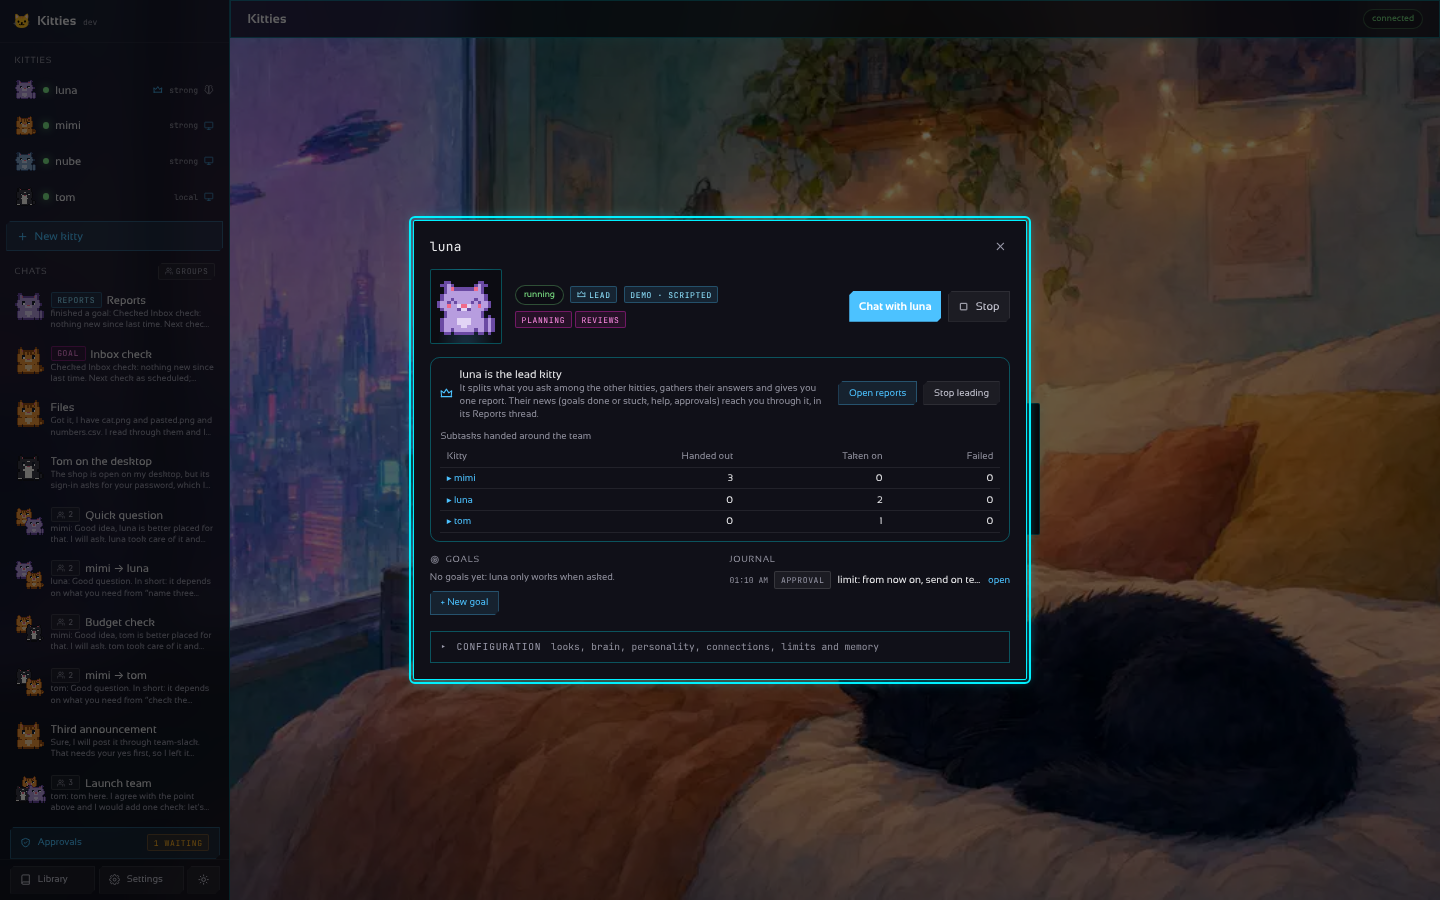
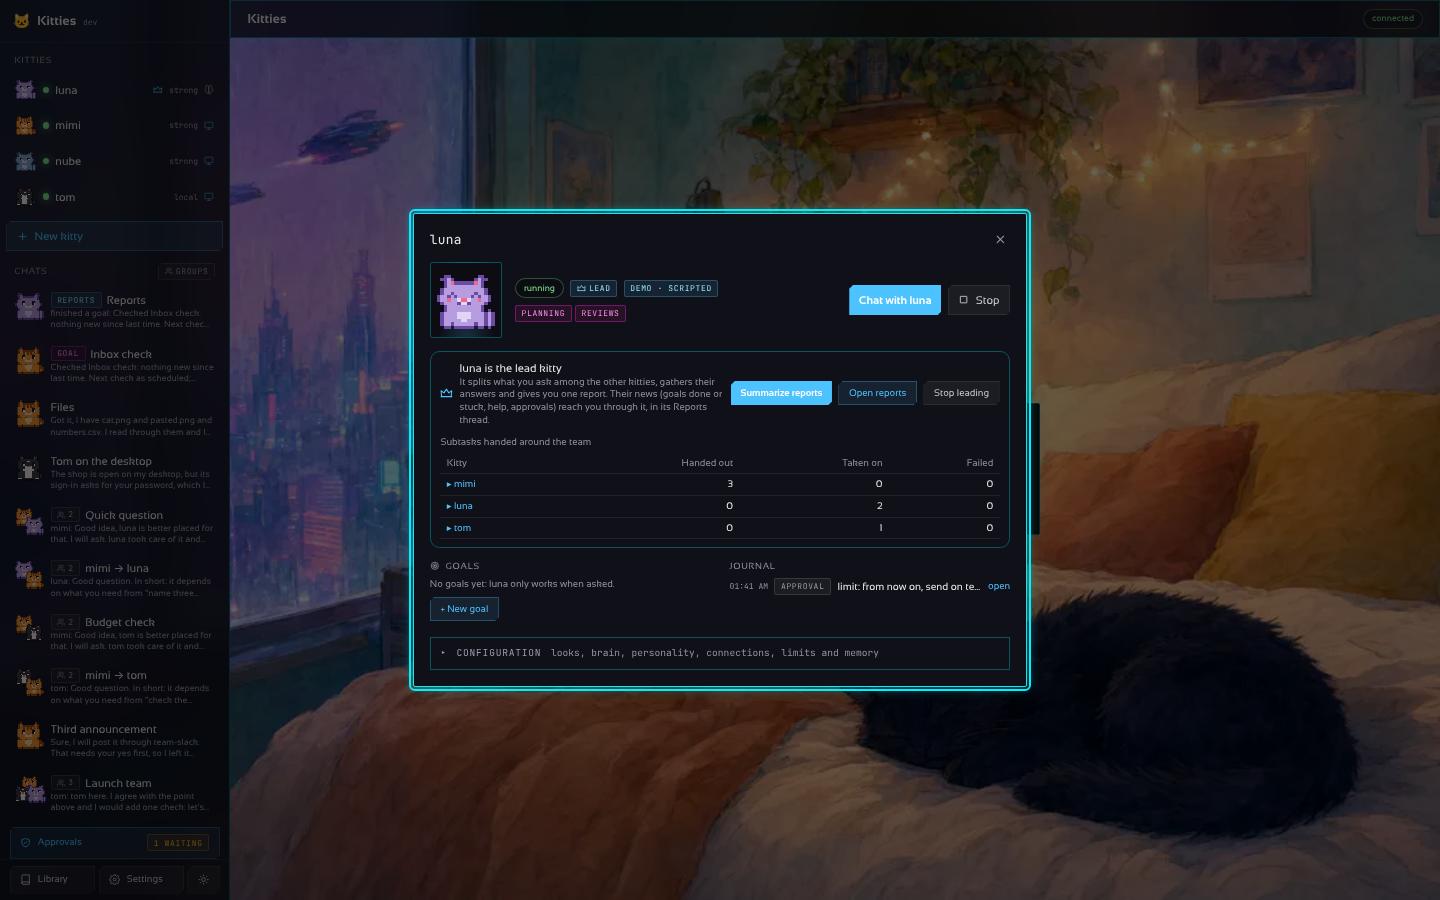
feat(fleet): lead by default in WhatsApp and new chats, parallel hand-overs, summarize reports
- WhatsApp answers with the lead kitty when no kitty is chosen; the settings say so
- new chats start with the lead ticked; `kitties chat` with no name talks to the lead
- hand-overs to different kitties in one reply run at the same time, shown in order
- "Summarize reports" in the lead's drawer asks it for a summary in its Reports thread
- tests, docs (AUTONOMY, WHATSAPP EN/ES), landing EN/ES and the lead screenshot refreshed

Claude-Session: https://claude.ai/code/session_017Z7sUbJSu63GEESkKHNqng

diff --git a/site/es/index.html b/site/es/index.html
@@ -52,7 +52,7 @@
 <div class="term"><pre><code># Ajustes → Preferencias → Claude (MCP) → Copiar comando, o a mano:
 claude mcp add --transport http --scope user kitties http://&lt;gateway&gt;:7488/mcp \
   --header "Authorization: Bearer &lt;MCP token&gt;"</code></pre></div></section>
-<section id="lead" class="wrap"><h2>Un kitty dirige a los demás</h2><p class="lead">Haz principal a un kitty y pasa a ser tu contacto principal: le pides algo, reparte el trabajo entre los kitties más indicados para cada parte, junta sus respuestas y te entrega un solo reporte; para una tarea larga puede darle a un kitty más rondas, tokens o tiempo, solo para esa tarea o de forma permanente, con topes y, si quieres, solo con tu aprobación. Lo que los demás tienen que contarte (metas cumplidas o trabadas, ayuda que necesitan, una acción que espera tu sí, el resumen diario) te llega a través de él, en su hilo Reportes y a su nombre. Un clic en el cajón del kitty, <code>lead: true</code> en el YAML, <code>kitties lead &lt;nombre&gt;</code>, o Claude por MCP.</p>
+<section id="lead" class="wrap"><h2>Un kitty dirige a los demás</h2><p class="lead">Haz principal a un kitty y pasa a ser tu contacto principal: le pides algo, reparte el trabajo entre los kitties más indicados para cada parte, junta sus respuestas (varios kitties a la vez) y te entrega un solo reporte, y con un clic le pides el resumen de los reportes; para una tarea larga puede darle a un kitty más rondas, tokens o tiempo, solo para esa tarea o de forma permanente, con topes y, si quieres, solo con tu aprobación. Lo que los demás tienen que contarte (metas cumplidas o trabadas, ayuda que necesitan, una acción que espera tu sí, el resumen diario) te llega a través de él, en su hilo Reportes y a su nombre. Los chats nuevos, WhatsApp y <code>kitties chat</code> van a él si no eliges otro kitty. Un clic en el cajón del kitty, <code>lead: true</code> en el YAML, <code>kitties lead &lt;nombre&gt;</code>, o Claude por MCP.</p>
 <div class="duo"><figure><img src="../img/lead.webp" alt="El cajón del kitty principal: luna dirige la flota, con Abrir reportes y Dejar de ser principal" loading="lazy" width="1440" height="900"><figcaption>El principal, en su cajón</figcaption></figure><figure><img src="../img/lead-reports.webp" alt="El hilo Reportes del principal: mimi terminó una meta" loading="lazy" width="1440" height="900"><figcaption>Las novedades de los demás, en su hilo Reportes</figcaption></figure></div></section>
 <section id="whatsapp" class="wrap"><h2>Conversa con tus kitties por WhatsApp</h2><p class="lead">Dales a los kitties un número propio: vincula un teléfono de repuesto como en WhatsApp Web escaneando un código QR en Ajustes. Las personas que pongas en la lista conversan con un kitty desde WhatsApp, y los kitties les responden, "escribiendo…" mientras piensan. Responden en los grupos que elijas cuando los nombran, leen fotos, documentos, stickers y ubicaciones, escuchan notas de voz y responden con las suyas (texto a voz, cada kitty con su propia voz, en todas las respuestas o solo a las notas de voz), devuelven los archivos que hacen y reaccionan con emojis. Cada número o grupo puede tener su propio kitty, con un límite por hora y un horario de silencio para cuidar el número; lo que el límite retiene queda sellado y listado en Ajustes, para reenviarlo cuando haya espacio. Viene desactivado, la lista parte vacía y la sesión queda sellada con la llave del vault. No es una API oficial y WhatsApp puede bloquear el número, así que la primera vez que lo activas una pantalla de bienvenida te pide aceptar ese riesgo; la vía oficial es la conexión WhatsApp Cloud API.</p>
 <div class="duo"><figure><img src="../img/whatsapp-welcome.webp" alt="La bienvenida de WhatsApp: no es una API oficial, un número de repuesto y una lista corta, la sesión sellada en el vault y el riesgo por aceptar" loading="lazy" width="1440" height="900"><figcaption>La primera vez: aceptar el riesgo</figcaption></figure><figure><img src="../img/whatsapp.webp" alt="Ajustes, WhatsApp conectado: notas de voz respondidas con notas de voz y los mensajes retenidos por el límite por hora" loading="lazy" width="1440" height="900"><figcaption>Notas de voz y los mensajes que retuvo el límite por hora</figcaption></figure></div></section>

diff --git a/site/index.html b/site/index.html
@@ -53,7 +53,7 @@
 <div class="term"><pre><code># Settings → Preferences → Claude (MCP) → Copy command, or by hand:
 claude mcp add --transport http --scope user kitties http://&lt;gateway&gt;:7488/mcp \
   --header "Authorization: Bearer &lt;MCP token&gt;"</code></pre></div></section>
-<section id="lead" class="wrap"><h2>One kitty leads the others</h2><p class="lead">Make one kitty the lead and it becomes your main contact: you ask it, it splits the work among the kitties best placed for each piece, gathers their answers and gives you one report; for a long task it can give a kitty more rounds, tokens or time, for that task alone or for good, within caps and, if you want, only with your yes. What the others have to tell you (goals done or stuck, help they need, an action waiting for a yes, the daily summary) reaches you through it, in its Reports thread and in its name. One click in a kitty’s drawer, <code>lead: true</code> in the YAML, <code>kitties lead &lt;name&gt;</code>, or Claude through MCP.</p>
+<section id="lead" class="wrap"><h2>One kitty leads the others</h2><p class="lead">Make one kitty the lead and it becomes your main contact: you ask it, it splits the work among the kitties best placed for each piece, gathers their answers (several kitties at the same time) and gives you one report, and one click asks it to sum the reports up; for a long task it can give a kitty more rounds, tokens or time, for that task alone or for good, within caps and, if you want, only with your yes. What the others have to tell you (goals done or stuck, help they need, an action waiting for a yes, the daily summary) reaches you through it, in its Reports thread and in its name. New chats, WhatsApp and <code>kitties chat</code> go to it unless you pick another kitty. One click in a kitty’s drawer, <code>lead: true</code> in the YAML, <code>kitties lead &lt;name&gt;</code>, or Claude through MCP.</p>
 <div class="duo"><figure><img src="img/lead.webp" alt="The lead kitty's drawer: luna leads the fleet, with Open reports and Stop leading" loading="lazy" width="1440" height="900"><figcaption>The lead, in its drawer</figcaption></figure><figure><img src="img/lead-reports.webp" alt="The lead's Reports thread: mimi finished a goal" loading="lazy" width="1440" height="900"><figcaption>The others' news, in its Reports thread</figcaption></figure></div></section>
 <section id="whatsapp" class="wrap"><h2>Talk to your kitties on WhatsApp</h2><p class="lead">Give the kitties a number of their own: link a spare phone as on WhatsApp Web by scanning a QR code in Settings. The people you put on the list chat with a kitty from WhatsApp, and the kitties write back to them, "typing…" while they think. They answer in the groups you pick when mentioned, read pictures, documents, stickers and locations, hear voice notes and answer with their own (text to speech, each kitty with its own voice, for every answer or only to voice notes), send back the files they make and react with emoji. Each number or group can have its own kitty, with an hourly limit and quiet hours to keep the number safe; what the limit holds back is kept sealed and listed in Settings, to resend when there is room. Off by default, the list starts empty and the session is sealed with the vault's key. It is not an official API and WhatsApp may ban the number, so the first time you turn it on a welcome screen asks you to accept that risk; the official way is the WhatsApp Cloud API connection.</p>
 <div class="duo"><figure><img src="img/whatsapp-welcome.webp" alt="The WhatsApp welcome: not an official API, a spare number and a short list, the session sealed in the vault, and the risk to accept" loading="lazy" width="1440" height="900"><figcaption>The first time: accept the risk</figcaption></figure><figure><img src="img/whatsapp.webp" alt="Settings, WhatsApp connected: voice notes answered with voice notes and the messages held by the hourly limit" loading="lazy" width="1440" height="900"><figcaption>Voice notes and the messages the hourly limit held</figcaption></figure></div></section>

diff --git a/desktop/frontend/src/Modals.tsx b/desktop/frontend/src/Modals.tsx
@@ -65,7 +65,10 @@ export function NewChatModal({
   onCreated: (id: string) => void;
   onNeedKitty?: () => void;
 }) {
-  const [picked, setPicked] = useState<Set<string>>(new Set());
+  // A new chat starts with the lead kitty picked, when there is one: it orchestrates the rest.
+  const [picked, setPicked] = useState<Set<string>>(
+    () => new Set(kitties.filter((k) => k.lead).map((k) => k.id)),
+  );
   const [title, setTitle] = useState("");
   const [err, setErr] = useState("");
   const toggle = (id: string) => {
@@ -616,6 +619,13 @@ function KittyBasics({
   );
 }
 
+// SUMMARY_ASK is what the person asks the lead with "Summarize reports", in the page's language
+// (the lead answers in the language it is written to).
+const SUMMARY_ASK = () =>
+  t(
+    "Summarize the reports in this thread since your last summary: what each kitty did, what is stuck or failed, what waits for me, and what you suggest next. Short, in bullets.",
+  );
+
 // LeadPanel makes a kitty the lead (the principal one, which orchestrates the others and
 // reports for all of them) or takes the lead from it, and opens its Reports thread.
 export function LeadPanel({
@@ -663,6 +673,19 @@ export function LeadPanel({
       setErr((e as Error).message);
     }
   };
+  // summarize opens the Reports thread and asks the lead for a summary there: the answer
+  // arrives in the thread while the person watches.
+  const summarize = async () => {
+    setErr("");
+    try {
+      const r = await api.lead();
+      if (!r.reports) return;
+      onOpenChat(r.reports);
+      api.send(r.reports, SUMMARY_ASK()).catch((e) => setErr((e as Error).message));
+    } catch (e) {
+      setErr((e as Error).message);
+    }
+  };
   return (
     <div class="lead-panel mt-4" data-testid="lead-panel">
       <div class="flex items-center gap-2 flex-wrap">
@@ -693,6 +716,13 @@ export function LeadPanel({
         <div class="flex gap-2 flex-wrap">
           {kitty.lead ? (
             <>
+              <button
+                class="btn-accent px-3 py-1.5 text-xs"
+                onClick={summarize}
+                data-testid="lead-summary"
+              >
+                {t("Summarize reports")}
+              </button>
               <button class="btn-outline px-3 py-1.5 text-xs" onClick={reports}>
                 {t("Open reports")}
               </button>

diff --git a/desktop/frontend/src/i18n/pt/lead.ts b/desktop/frontend/src/i18n/pt/lead.ts
@@ -20,6 +20,10 @@ const dict: Dictionary = {
     "Pergunte-me antes que o kitty principal mude os limites de outro",
   "The lead may give a kitty more rounds, tokens or seconds per task (up to 500 rounds, 2M tokens, 2 hours). On: each lasting change waits in Approvals. What it gives for one task alone ends with the task.":
     "O principal pode dar a um kitty mais rodadas, tokens ou segundos por tarefa (até 500 rodadas, 2M de tokens, 2 horas). Ligado: cada mudança permanente espera em Aprovações. O que ele dá para uma só tarefa termina com a tarefa.",
+  "The lead kitty ({name})": "O kitty principal ({name})",
+  "Summarize reports": "Resumir relatórios",
+  "Summarize the reports in this thread since your last summary: what each kitty did, what is stuck or failed, what waits for me, and what you suggest next. Short, in bullets.":
+    "Resuma os relatórios deste tópico desde o seu último resumo: o que cada kitty fez, o que está travado ou falhou, o que espera por mim e o que você sugere agora. Curto, em tópicos.",
   limit: "limite",
 };
 

diff --git a/desktop/frontend/src/i18n/es/lead.ts b/desktop/frontend/src/i18n/es/lead.ts
@@ -20,6 +20,10 @@ const dict: Dictionary = {
     "Pregúntame antes de que el kitty principal cambie los límites de otro",
   "The lead may give a kitty more rounds, tokens or seconds per task (up to 500 rounds, 2M tokens, 2 hours). On: each lasting change waits in Approvals. What it gives for one task alone ends with the task.":
     "El principal puede darle a un kitty más rondas, tokens o segundos por tarea (hasta 500 rondas, 2M de tokens, 2 horas). Activado: cada cambio permanente espera en Aprobaciones. Lo que da para una sola tarea termina con la tarea.",
+  "The lead kitty ({name})": "El kitty principal ({name})",
+  "Summarize reports": "Resumir reportes",
+  "Summarize the reports in this thread since your last summary: what each kitty did, what is stuck or failed, what waits for me, and what you suggest next. Short, in bullets.":
+    "Resume los reportes de este hilo desde tu último resumen: qué hizo cada kitty, qué está trabado o falló, qué espera por mí y qué sugieres hacer ahora. Breve, en viñetas.",
   limit: "límite",
 };
 

diff --git a/desktop/frontend/src/WhatsApp.tsx b/desktop/frontend/src/WhatsApp.tsx
@@ -61,6 +61,8 @@ const INPUT = "w-full px-3 py-2 text-sm";
 const digits = (n: string) => n.replace(/\D/g, "").replace(/^00/, "");
 
 export default function WhatsAppLink({ kitties }: { kitties: Kitty[] }) {
+  // With no kitty chosen, the lead answers.
+  const lead = kitties.find((k) => k.lead);
   const [cur, setCur] = useState<WhatsAppStatus | null>(null);
   const [want, setWant] = useState<WhatsAppSettings | null>(null);
   const [number, setNumber] = useState("");
@@ -222,7 +224,9 @@ export default function WhatsAppLink({ kitties }: { kitties: Kitty[] }) {
             onChange={(e) => setWant({ ...want, kitty: (e.target as HTMLSelectElement).value })}
             data-testid="whatsapp-kitty"
           >
-            <option value="">{t("Choose a kitty")}</option>
+            <option value="">
+              {lead ? t("The lead kitty ({name})", { name: lead.name }) : t("Choose a kitty")}
+            </option>
             {kitties.map((k) => (
               <option key={k.id} value={k.id}>
                 {k.name}

diff --git a/desktop/frontend/e2e/screens.spec.ts b/desktop/frontend/e2e/screens.spec.ts
@@ -3652,6 +3652,13 @@ test("the lead kitty orchestrates the others and their news reach it", async ({ 
     await page.getByRole("button", { name: "Open reports" }).click();
     await expect(page.getByText("finished a goal", { exact: false }).first()).toBeVisible();
     await shot(page, "72-lead-reports");
+
+    // One click asks the lead to sum the reports up, in that same thread.
+    await open(page, `#kitty/${luna.id}`);
+    await page.getByTestId("lead-summary").click();
+    await expect(
+      page.getByText("Summarize the reports in this thread", { exact: false }).first(),
+    ).toBeVisible();
   } finally {
     await page.request.put(`${GATEWAY}/v1/lead`, { headers: H, data: { kitty: "" } });
   }

diff --git a/internal/chat/actions.go b/internal/chat/actions.go
@@ -4,6 +4,7 @@ import (
 	"context"
 	"fmt"
 	"strings"
+	"sync"
 
 	"github.com/madkoding/kitties/internal/connector"
 	"github.com/madkoding/kitties/internal/desktop"
@@ -234,10 +235,11 @@ func (o outcome) result() string {
 // background task's business) and records them on the turn.
 func (s *Service) runNonDesktop(ctx context.Context, id string, actions []action, k *kitty.Kitty, allowed map[string]string, turn *Turn) []outcome {
 	var out []outcome
-	for _, a := range actions {
+	handed := s.delegateAll(ctx, id, actions, k, turn)
+	for i, a := range actions {
 		switch a.kind {
 		case "delegate":
-			out = append(out, s.delegate(ctx, id, a, k, turn))
+			out = append(out, handed[i])
 		case "memory":
 			out = append(out, s.runMemory(id, a, k))
 		case "limit":
@@ -309,4 +311,47 @@ func hasDesktopAction(actions []action) bool {
 		}
 	}
 	return false
+}
+
+// delegateAll runs the batch's hand-overs, by their index in actions. Hand-overs to different
+// kitties run at the same time, so a lead that splits a task among several waits for the
+// slowest instead of for all of them in a row; two to the same kitty go one after the other.
+func (s *Service) delegateAll(ctx context.Context, id string, actions []action, k *kitty.Kitty, turn *Turn) map[int]outcome {
+	byKitty := map[string][]int{}
+	var order []string
+	for i, a := range actions {
+		if a.kind != "delegate" {
+			continue
+		}
+		key := strings.ToLower(strings.TrimSpace(a.name))
+		if _, seen := byKitty[key]; !seen {
+			order = append(order, key)
+		}
+		byKitty[key] = append(byKitty[key], i)
+	}
+	out := map[int]outcome{}
+	if len(order) == 0 {
+		return out
+	}
+	turns := make([]Turn, len(actions))
+	var mu sync.Mutex
+	var wg sync.WaitGroup
+	for _, key := range order {
+		wg.Add(1)
+		go func(idx []int) {
+			defer wg.Done()
+			for _, i := range idx {
+				o := s.delegate(ctx, id, actions[i], k, &turns[i])
+				mu.Lock()
+				out[i] = o
+				mu.Unlock()
+			}
+		}(byKitty[key])
+	}
+	wg.Wait()
+	// The hand-overs are shown in the order they were asked for.
+	for i := range actions {
+		turn.Delegations = append(turn.Delegations, turns[i].Delegations...)
+	}
+	return out
 }

diff --git a/internal/whatsapp/whatsapp.go b/internal/whatsapp/whatsapp.go
@@ -278,6 +278,8 @@ type Options struct {
 	Chats     Chats
 	// Kitty finds the kitty that answers.
 	Kitty func(ref string) (*kitty.Kitty, error)
+	// Lead is the fleet's lead kitty, nil when none is: it answers when no kitty is chosen.
+	Lead func() *kitty.Kitty
 	// Registry offers the connector while the link is on.
 	Registry Registry
 	// QRImage draws a code as a PNG data URL (optional).
@@ -489,8 +491,8 @@ func (b *Bridge) Status() Status {
 	if b.opt.Box == nil {
 		st.Why = ErrNoVault.Error()
 	}
-	if b.set.Kitty != "" && b.opt.Kitty != nil {
-		if k, err := b.opt.Kitty(b.set.Kitty); err == nil {
+	if ref := b.kittyRefLocked(""); ref != "" && b.opt.Kitty != nil {
+		if k, err := b.opt.Kitty(ref); err == nil {
 			st.KittyName = k.Name
 		}
 	}
@@ -568,8 +570,8 @@ func (b *Bridge) check(s Settings) (Settings, error) {
 			out.Allow = append(out.Allow, d)
 		}
 	}
-	if out.Enabled && out.Kitty == "" {
-		return Settings{}, errors.New("choose the kitty that answers on WhatsApp")
+	if out.Enabled && out.Kitty == "" && b.leadID() == "" {
+		return Settings{}, errors.New("choose the kitty that answers on WhatsApp (or make one the lead)")
 	}
 	if out.Kitty != "" && b.opt.Kitty != nil {
 		k, err := b.opt.Kitty(out.Kitty)
@@ -1344,7 +1346,21 @@ func (b *Bridge) kittyRefLocked(who string) string {
 	if ref := b.set.Kitties[who]; ref != "" {
 		return ref
 	}
-	return b.set.Kitty
+	if b.set.Kitty != "" {
+		return b.set.Kitty
+	}
+	return b.leadID()
+}
+
+// leadID is the lead kitty's id, the one that answers when no kitty is chosen; empty when none.
+func (b *Bridge) leadID() string {
+	if b.opt.Lead == nil {
+		return ""
+	}
+	if k := b.opt.Lead(); k != nil {
+		return k.ID
+	}
+	return ""
 }
 
 // kittyLocked is that kitty, when it is there.

diff --git a/internal/chat/lead_test.go b/internal/chat/lead_test.go
@@ -4,13 +4,16 @@ import (
 	"context"
 	"path/filepath"
 	"strings"
+	"sync"
 	"testing"
+	"time"
 
 	"github.com/madkoding/kitties/internal/agenda"
 	"github.com/madkoding/kitties/internal/approvals"
 	"github.com/madkoding/kitties/internal/kitty"
 	"github.com/madkoding/kitties/internal/notify"
 	"github.com/madkoding/kitties/internal/provider"
+	"github.com/madkoding/kitties/internal/soul"
 )
 
 func TestLeadReportsForTheOthers(t *testing.T) {
@@ -318,3 +321,43 @@ func (p probe) Complete(context.Context, []provider.Message) (provider.Reply, er
 	return provider.Reply{Content: "done"}, nil
 }
 func (p probe) Describe() string { return "probe" }
+
+func TestHandOversToSeveralKittiesRunAtOnce(t *testing.T) {
+	f, sa, _, _ := fleet(t)
+	var mu sync.Mutex
+	in := 0
+	both := make(chan struct{})
+	together := 0
+	// Each helper waits for the other: in a row, the first would wait in vain.
+	meet := func() {
+		mu.Lock()
+		in++
+		if in == 2 {
+			close(both)
+		}
+		mu.Unlock()
+		select {
+		case <-both:
+			mu.Lock()
+			together++
+			mu.Unlock()
+		case <-time.After(2 * time.Second):
+		}
+	}
+	for _, name := range []string{"cy", "di"} {
+		k := &kitty.Kitty{ID: name + "1", Name: name, Soul: soul.Default(name)}
+		f.kitties[k.ID] = k
+		f.brains[k.ID] = probe(meet)
+	}
+	s := service(t, f)
+	sa.replies = []string{"@delegate cy {\"task\": \"one\"}\n@delegate di {\"task\": \"two\"}", "both done"}
+	sess, _ := s.Create("", []string{"ana"})
+	turns, err := s.Send(context.Background(), sess.ID, "split it")
+	if err != nil {
+		t.Fatal(err)
+	}
+	d := turns[0].Delegations
+	if together != 2 || len(d) != 2 || d[0].Kitty != "cy" || d[1].Kitty != "di" {
+		t.Fatalf("together = %d, delegations = %+v", together, d)
+	}
+}

diff --git a/cmd/kitties/main.go b/cmd/kitties/main.go
@@ -73,7 +73,7 @@ Commands:
   lead [<name> | none]      show the lead kitty (the one that orchestrates the others and reports for
                             all of them), make another the lead, or leave the fleet without one
   scale <name> <n>          run n replicas of a configured kitty (name-1 ... name-n)
-  chat <name>[,<name>...]   talk to one kitty, or to a group of them, from the terminal
+  chat [<name>[,<name>...]] talk to one kitty, or to a group of them, from the terminal (no name: the lead)
   exec <name> <cmd...>      run a command inside the kitty's container
   shot <name> <file.png>    save a screenshot of the kitty's display
   providers                 list the configured AI profiles and the supported kinds
@@ -1038,8 +1038,14 @@ func (a *app) cmdShot(ctx context.Context, args []string) error {
 
 // cmdChat is the terminal chat: one kitty, or a group of them.
 func (a *app) cmdChat(ctx context.Context, args []string) error {
+	if len(args) == 0 {
+		// No kitty named: the lead, which hands the work to the others.
+		if lead := a.fleet.Lead(); lead != nil {
+			args = []string{lead.Name}
+		}
+	}
 	if len(args) != 1 {
-		return errors.New("usage: kitties chat <name>[,<name>...]")
+		return errors.New("usage: kitties chat <name>[,<name>...] (or no name, for the lead kitty)")
 	}
 	members := strings.Split(args[0], ",")
 	sess, err := a.chats.Create("", members)

diff --git a/internal/whatsapp/whatsapp_test.go b/internal/whatsapp/whatsapp_test.go
@@ -1624,3 +1624,27 @@ func TestProgressWaitsItsGap(t *testing.T) {
 		t.Fatalf("within the gap nothing goes out: %v %v", f.messages(), st.seen)
 	}
 }
+
+func TestTheLeadAnswersWhenNoKittyIsChosen(t *testing.T) {
+	r := newRig(t)
+	if err := r.b.Apply(Settings{Enabled: true, Allow: []string{"+56 9 1234 5678"}}, true); err == nil {
+		t.Fatal("on with no kitty and no lead was accepted")
+	}
+	var lead *kitty.Kitty
+	r.b.opt.Lead = func() *kitty.Kitty { return lead }
+	lead, _ = kittyOf("luna")
+	r.b.Start(context.Background())
+	if err := r.b.Apply(Settings{Enabled: true, Allow: []string{"+56 9 1234 5678"}}, true); err != nil {
+		t.Fatal(err)
+	}
+	if st := r.b.Status(); st.Kitty != "" || st.KittyName != "luna" {
+		t.Fatalf("status = %+v", st)
+	}
+	f := r.next(t)
+	f.push(Event{Kind: EvConnected, Phone: "15550001"})
+	f.push(Event{Kind: EvMessage, From: "56912345678", Name: "Mad", Text: "hola"})
+	eventually(t, "the reply", func() bool { return len(f.messages()) == 1 })
+	if s, _ := r.chats.Get("c1"); s.Members[0] != "k2" {
+		t.Fatalf("chat = %+v", s)
+	}
+}
